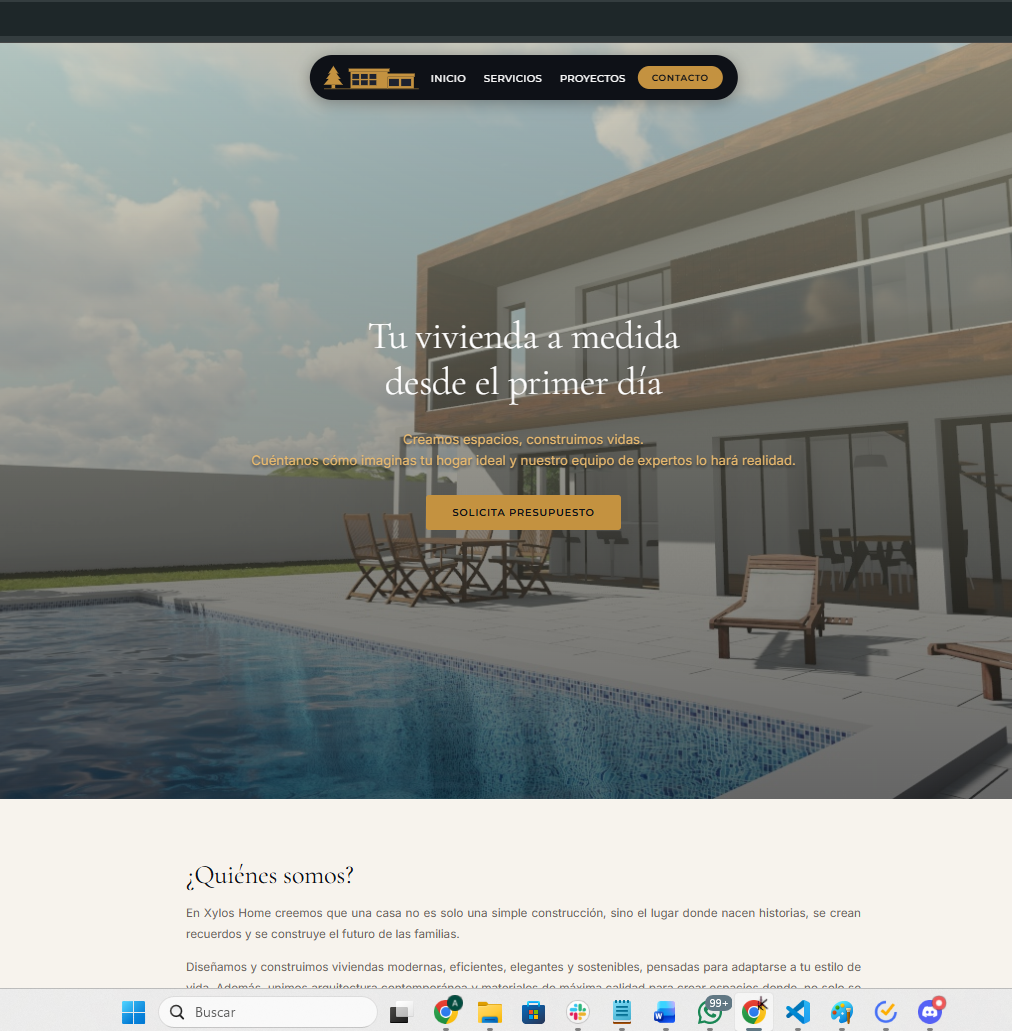
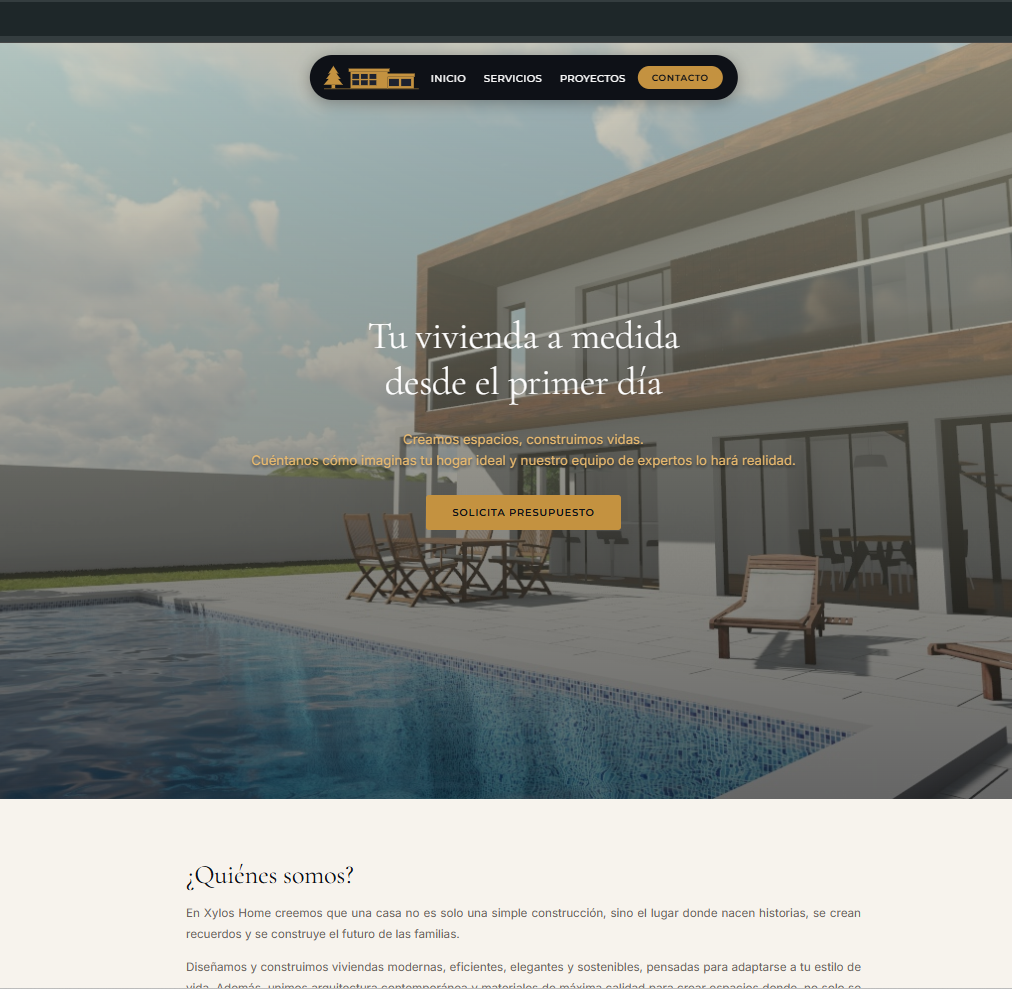
Tarejetas servicios

diff --git a/src/styles/servicios.css b/src/styles/servicios.css
@@ -869,8 +869,8 @@
   background: linear-gradient(
     180deg,
     var(--forge)  0%,
-    var(--ghost) 18%,
-    var(--ghost) 75%,
+    var(--sheath) 30%,
+    var(--sheath) 70%,
     var(--forge) 100%
   );
   z-index: 1;
@@ -1112,7 +1112,7 @@
   border: 1px solid rgba(255, 255, 255, 0.07);
   border-radius: 1.25rem;
   display: grid;
-  grid-template-columns: 1fr 1fr;
+  grid-template-columns: 40% 60%;
   overflow: hidden;
 }
 
@@ -1128,18 +1128,24 @@
   font-family: var(--font-mono);
   letter-spacing: 0.08em;
   font-weight: 600;
+  display: block;
+  margin-bottom: 0.3rem;
 }
 
 .svc-hs__card-title {
-  font-size: clamp(1.35rem, 2.1vw, 2.5rem);
+  font-size: clamp(1.6rem, 3.8vw, 3.6rem);
   font-weight: 700;
   margin: 0 0 0.65rem;
-  line-height: 1.15;
+  line-height: 1.1;
+}
+
+.svc-hs__card-features {
+  display: none;
 }
 
 .svc-hs__card-desc {
   color: var(--spark);
-  font-size: clamp(0.82rem, 1.0vw, 1.05rem);
+  font-size: clamp(1rem, 3.0vw, 1.35rem);
   line-height: 1.7;
   margin-bottom: 1rem;
 }
@@ -1291,18 +1297,50 @@
     height: auto;
     max-height: none;
     min-height: 0;
-    grid-template-columns: 1fr;
+    grid-template-columns: 1fr 1fr;
     border-radius: 1rem;
   }
 
-  .svc-hs__card-right {
-    height: 200px;
-    border-left: none;
-    border-top: 1px solid rgba(255, 255, 255, 0.06);
+  .svc-hs__card-left {
+    overflow-y: visible;
   }
 
   .svc-hs__progress {
     padding: 1rem 1.25rem 2rem;
+  }
+}
+
+/* ── Card fluid font scaling on mobile/tablet ── */
+@media (max-width: 1199px) {
+  .svc-hs__card-left {
+    padding: clamp(1rem, 3vw, 2rem) clamp(0.75rem, 2.5vw, 1.75rem) clamp(1rem, 2.5vw, 1.5rem) clamp(1rem, 3vw, 2rem);
+  }
+  .svc-hs__card-title {
+    font-size: clamp(1.1rem, 5vw, 2.5rem);
+    margin-bottom: 0.5rem;
+  }
+  .svc-hs__card-desc {
+    font-size: clamp(0.85rem, 2.8vw, 1.05rem);
+    margin-bottom: 0.75rem;
+    line-height: 1.6;
+  }
+  .svc-hs__card-footer {
+    padding-top: 0.75rem;
+    gap: 0.6rem;
+  }
+  .svc-hs__card-price {
+    font-size: clamp(0.9rem, 3vw, 1.1rem);
+  }
+  .svc-hs__card-price-note {
+    font-size: clamp(0.6rem, 1.5vw, 0.72rem);
+  }
+  .svc-hs__card .specs-link-btn {
+    font-size: clamp(0.6rem, 1.5vw, 0.72rem);
+    padding: 0.35rem 0.75rem;
+  }
+  .svc-hs__card-footer .btn--chamfer {
+    padding: 0.5rem 1rem;
+    font-size: clamp(0.75rem, 2.5vw, 0.95rem);
   }
 }
 

diff --git a/src/pages/Portfolio.jsx b/src/pages/Portfolio.jsx
@@ -105,7 +105,7 @@ export function PortfolioSection() {
       <div className="container">
         <header className="section__header" style={{ textAlign: 'center' }}>
           <p className="section-label" style={{ justifyContent: 'center' }}>
-            <span style={{ flex: 0, marginRight: '1rem' }}>/Portfolio</span>
+            <span style={{ flex: 0, marginRight: '1rem' }}>/Proyectos</span>
           </p>
           <h2 className="section__h2" style={{ textTransform: 'none' }}>Nuestros <span className="accent"> clientes.</span></h2>
           <p className="section__sub" style={{ margin: '1rem auto 0' }}>
@@ -243,7 +243,7 @@ export default function Portfolio() {
           <div className="container">
             <header className="section__header" style={{ textAlign: 'center' }}>
               <p className="section-label" style={{ justifyContent: 'center' }}>
-                <span style={{ flex: 0, marginRight: '1rem' }}>/Portfolio</span>
+                <span style={{ flex: 0, marginRight: '1rem' }}>/Proyectos</span>
               </p>
               <h2 className="section__h2" style={{ textTransform: 'none' }}>Nuestros <span className="accent"> clientes.</span></h2>
               <p className="section__sub" style={{ margin: '1rem auto 0' }}>

diff --git a/src/pages/Servicios.jsx b/src/pages/Servicios.jsx
@@ -698,7 +698,7 @@ function ServiceSwitcher() {
             ))}
           </ul>
 
-          <button className="specs-link-btn" onClick={() => setSpecsCol(active)}>Ver todo</button>
+          <button className="specs-link-btn" onClick={() => setSpecsCol(active)}>Especificaciones</button>
 
           {/* Footer aquí también para móvil (en desktop se oculta via CSS) */}
           <div className="svc-sw__footer svc-sw__footer--mobile">
@@ -872,7 +872,7 @@ function ServiciosHorizontal() {
                       <li key={fi}>{f}</li>
                     ))}
                   </ul>
-                  <button className="specs-link-btn" onClick={() => setSpecsCol(idx)}>Ver todo</button>
+                  <button className="specs-link-btn" onClick={() => setSpecsCol(idx)}>Especificaciones</button>
                   <div className="svc-hs__card-footer">
                     <div>
                       <span className="svc-hs__card-price">{svc.price}</span>

diff --git a/src/styles/faq.css b/src/styles/faq.css
@@ -70,7 +70,7 @@
 /* ── Layout principal ── */
 .faq-page-body {
   padding: var(--section-py) 0;
-  background: linear-gradient(180deg, var(--forge) 0%, var(--ghost) 12%, var(--ghost) 88%, var(--forge) 100%);  position: relative;
+  background: linear-gradient(180deg, var(--forge) 0%, var(--sheath) 30%, var(--sheath) 70%, var(--forge) 100%);  position: relative;
 }
 
 .faq-page-body::before {

diff --git a/src/styles/utilities.css b/src/styles/utilities.css
@@ -272,7 +272,7 @@
 
 /* ── Fondo degradado oscuro (igual que #modulos en Servicios) ── */
 .section--gradient-bg {
-  background: linear-gradient(180deg, var(--forge) 0%, var(--ghost) 12%, var(--ghost) 88%, var(--forge) 100%);
+  background: linear-gradient(180deg, var(--forge) 0%, var(--sheath) 30%, var(--sheath) 70%, var(--forge) 100%);
 }
 
 .section--gradient-bg::before {

diff --git a/src/styles/cards.css b/src/styles/cards.css
@@ -242,11 +242,12 @@
   background: var(--forge);
   border: 1px solid var(--ghost);
   border-radius: 5px;
-  padding: 1.75rem 1.2rem;
+  padding: 1.75rem 1.5rem;
   display: flex;
   flex-direction: column;
   gap: 0.75rem;
   transition: border-color var(--t-mid);
+  min-height: 220px;
 }
 
 .module__front {
